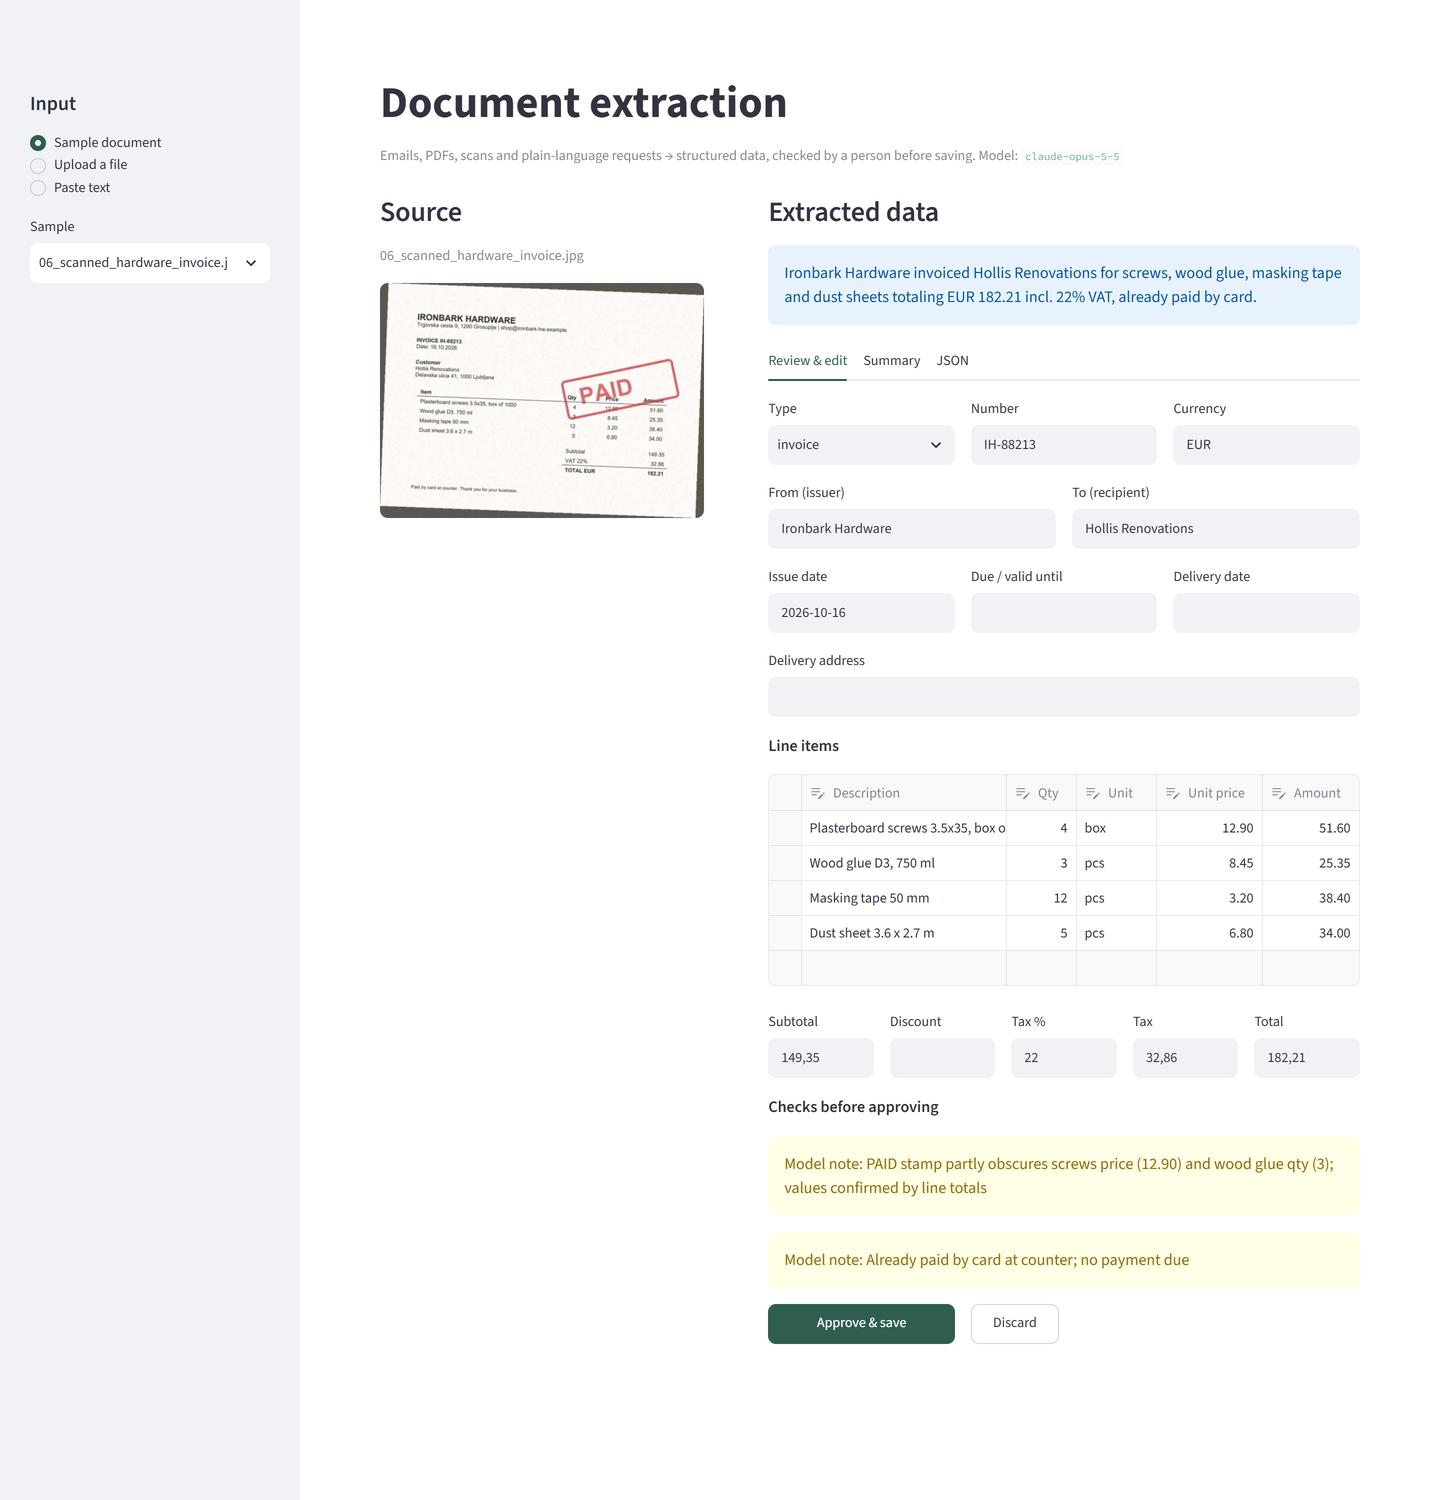
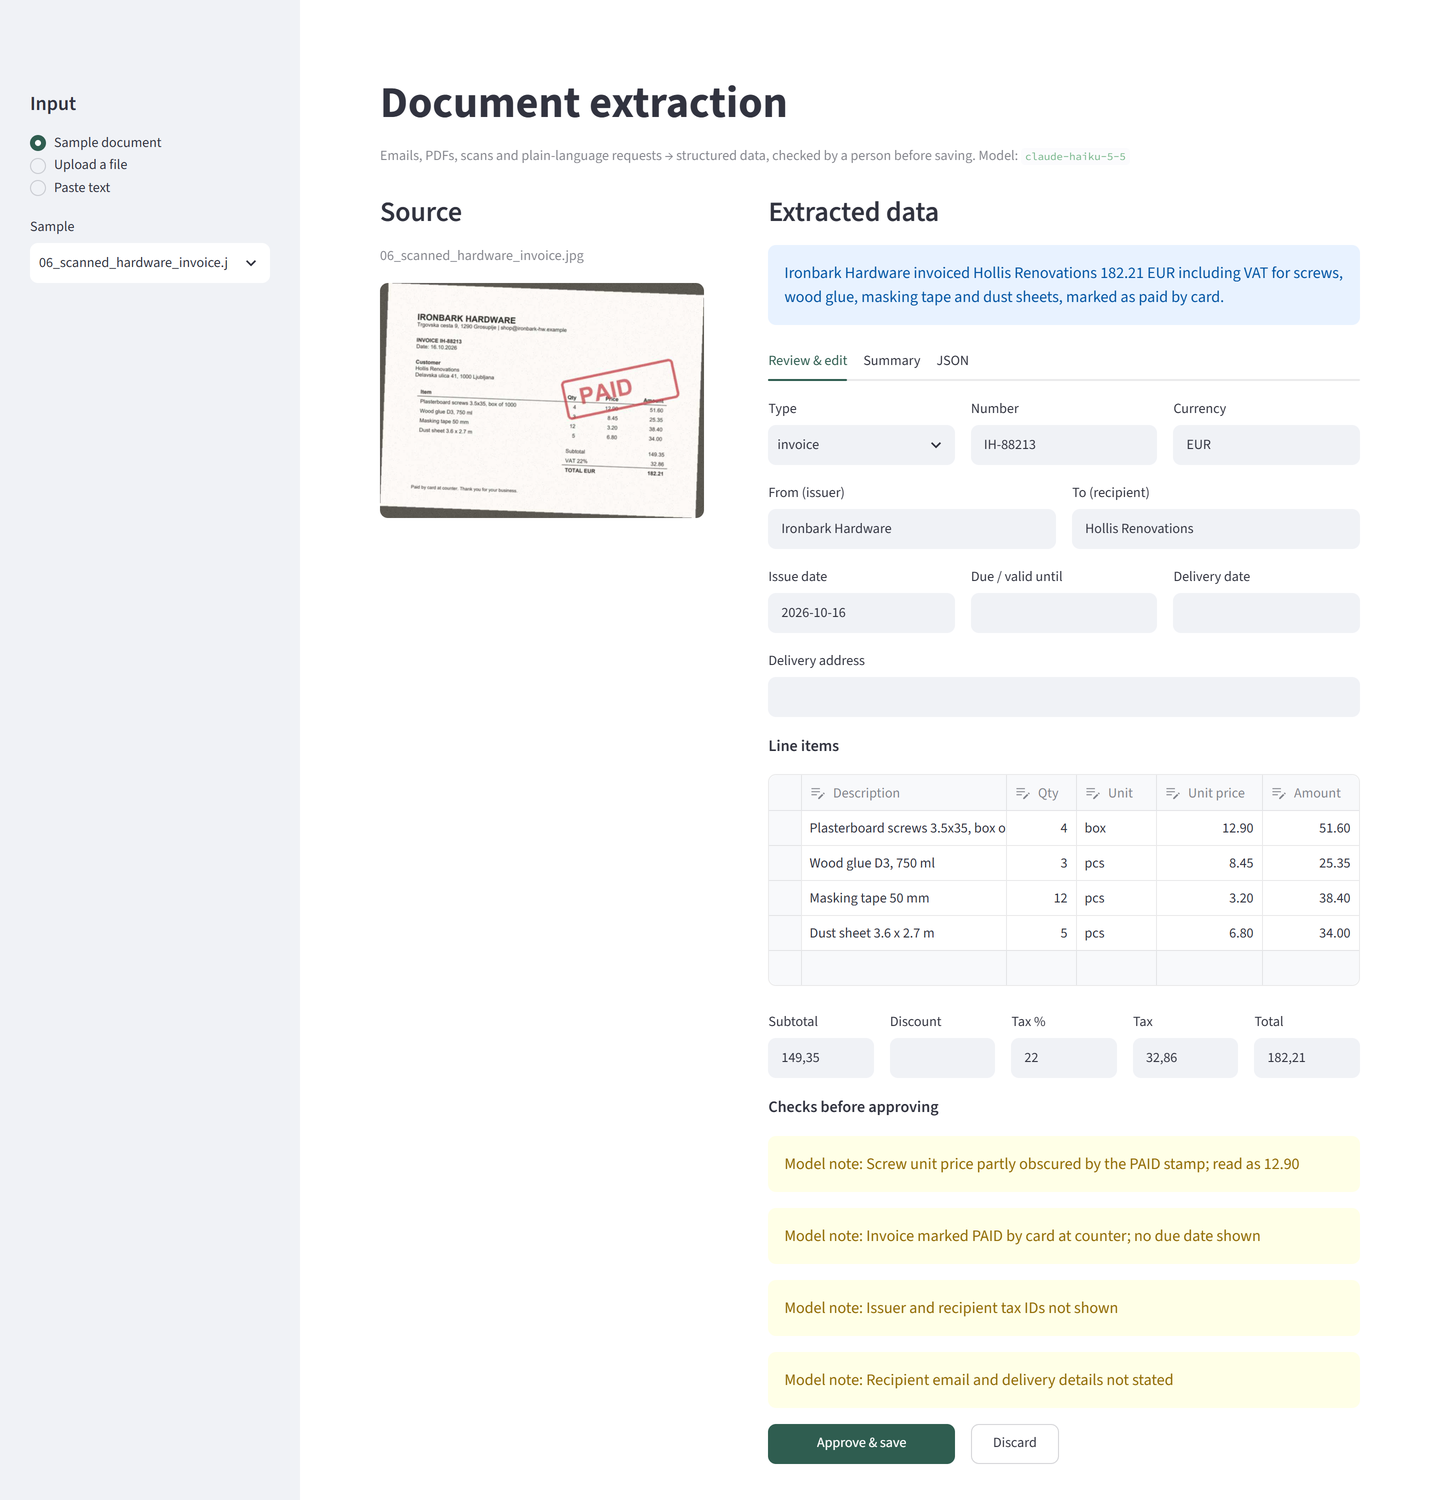
Make claude-haiku-5-5 the default model
Matches the README recommendation. Opus and Sonnet stay selectable via
EXTRACTION_MODEL or --model. Demo mode and the CI re-score now use the
Haiku outputs; screenshots regenerated to show the default model.

Changed region(s): [[0.5312, 0.7667, 0.9062, 0.9813], [0.5625, 0.1533, 0.875, 0.2147], [0.875, 0.1533, 0.9062, 0.184]]

diff --git a/scripts/screenshot.py b/scripts/screenshot.py
@@ -2,7 +2,7 @@
 
 Start the app first (streamlit run app.py), then:
     pip install playwright
-    python scripts/screenshot.py [sample-name] [url]
+    python scripts/screenshot.py [sample-name] [url] [viewport-height]
 
 Uses the locally installed Microsoft Edge, so no browser download is needed.
 """
@@ -16,10 +16,11 @@ from playwright.sync_api import sync_playwright
 ROOT = Path(__file__).resolve().parent.parent
 SAMPLE = sys.argv[1] if len(sys.argv) > 1 else "02_concrete_invoice.pdf"
 URL = sys.argv[2] if len(sys.argv) > 2 else "http://localhost:8501"
+HEIGHT = int(sys.argv[3]) if len(sys.argv) > 3 else 1500
 
 with sync_playwright() as p:
     browser = p.chromium.launch(channel="msedge")
-    page = browser.new_page(viewport={"width": 1440, "height": 1500}, device_scale_factor=2)
+    page = browser.new_page(viewport={"width": 1440, "height": HEIGHT}, device_scale_factor=2)
     page.goto(URL)
     page.locator("[data-testid=stSelectbox]").click()
     page.get_by_role("option", name=SAMPLE).click()

diff --git a/tests/test_scoring.py b/tests/test_scoring.py
@@ -4,6 +4,7 @@ import json
 
 import pytest
 
+from extractor import DEFAULT_MODEL
 from run_eval import EXPECTED, OUTPUTS, check, get, norm, same_number, score
 
 ACTUAL = {
@@ -73,4 +74,4 @@ def test_every_sample_has_expected_values_and_saved_output():
     for name in names:
         expected = json.loads((EXPECTED / f"{name}.json").read_text(encoding="utf-8"))
         assert expected, name
-        assert (OUTPUTS / "claude-opus-5-5" / f"{name}.json").exists(), name
+        assert (OUTPUTS / DEFAULT_MODEL / f"{name}.json").exists(), name

diff --git a/extractor.py b/extractor.py
@@ -10,7 +10,7 @@ from typing import Literal, Optional
 import anthropic
 from pydantic import BaseModel, Field
 
-DEFAULT_MODEL = "claude-opus-5-5"
+DEFAULT_MODEL = "claude-haiku-5-5"
 MODEL = os.environ.get("EXTRACTION_MODEL", DEFAULT_MODEL)
 # Models that accept the server-side refusal fallback ("default" form).
 FALLBACK_MODELS = {"claude-opus-5-5", "claude-sonnet-5-5", "claude-fable-5-1"}

diff --git a/README.md b/README.md
@@ -67,7 +67,8 @@ currency, subtotal, discount, tax rate, tax, total, line item amounts and quanti
 whether the arithmetic checks fire. They must fire on the wrong-total invoice and stay quiet
 on the other seven.
 
-Result with `claude-opus-5-5`:
+Result with the default model, `claude-haiku-5-5` (Opus and Sonnet scored the same; see
+below):
 
 ```
 01_forwarded_quote                     13/13
@@ -116,14 +117,14 @@ What the table does and doesn't show:
   the fastest despite being the smallest model. Its per-token price is low enough that it
   is still about 13× cheaper than Sonnet and 29× cheaper than Opus.
 
-**Recommendation:** `claude-haiku-5-5` as the default for this workload. On this eval it
+**Default: `claude-haiku-5-5`.** On this eval it
 matched the larger models on every field and its notes to the reviewer were as useful as
 Opus's, at about a tenth of a cent per document. The trade-off is about two seconds more
 per document than Sonnet. Haiku also has no server-side refusal fallback, and eight
 documents is too few to rule out a gap on harder real-world paperwork. So choose Sonnet
 when response time matters most, and re-run the eval on the customer's own documents
-before committing. The code currently defaults to Opus. Switch with
-`EXTRACTION_MODEL=claude-haiku-5-5` in `.env`, or pass `--model` to the eval.
+before committing. To use another model, set `EXTRACTION_MODEL=claude-sonnet-5-5` (or
+`claude-opus-5-5`) in `.env`, or pass `--model` to the eval.
 
 ## Run it
 
@@ -171,8 +172,9 @@ scripts/              regenerate the samples and the screenshots (requirements-d
   model, so a wrong total is caught even if the model copies it faithfully and says nothing.
 - **One call per document.** No agent loop is needed for this task. That keeps it fast,
   cheap and easy to reason about.
-- **Refusal fallback** is turned on for Opus and Sonnet, so a false positive from a safety
-  classifier doesn't stop a legitimate document.
+- **Refusal fallback** is turned on when Opus or Sonnet is selected, so a false positive
+  from a safety classifier doesn't stop a legitimate document. Haiku doesn't offer it; a
+  refusal there shows an error in the app, and `EXTRACTION_MODEL` can point at Sonnet instead.
 - **For production** you would add a queue for bulk inbox processing, a check for
   duplicate invoices, and an export to the accounting or ERP system instead of JSON files.
 
